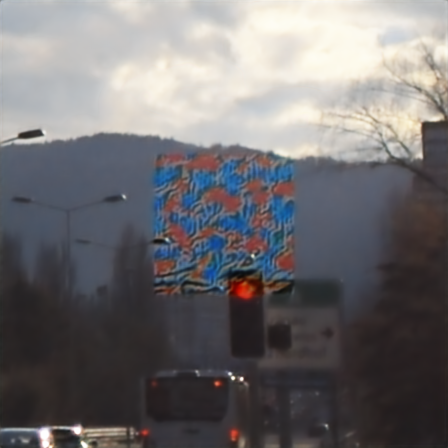
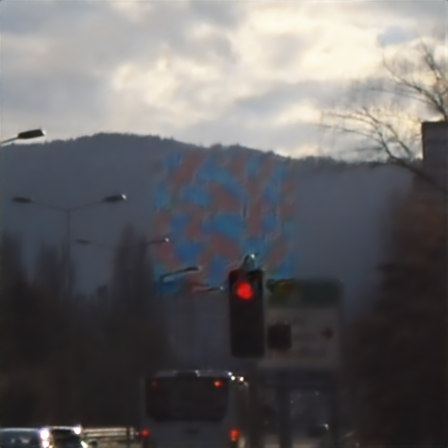
updates

diff --git a/DeepISP/patch_optimization.py b/DeepISP/patch_optimization.py
@@ -166,9 +166,9 @@ def process_raw_images(model):
         imageio.imwrite(os.path.join(current_path, res_folder) + '/' +  str(i) + '.png', I)
 
 def main():
-    epsilon = 0.2 / 255.0  # Perturbation level
+    epsilon = 0.05 / 255.0  # Perturbation level
     max_iterations = 20 # Max Iterations for FGSM
-    loss_threshold = 0.1 # Loss Threshold
+    loss_threshold = 0.02 # Loss Threshold
 
     image_path = current_path + "input_raw_images/" + input_file_name + ".png"
     image = load_image(image_path)

diff --git a/YOLO/YOLOv8.py b/YOLO/YOLOv8.py
@@ -27,6 +27,7 @@ for result in results:
     masks = result.masks  # Masks object for segmentation masks outputs
     keypoints = result.keypoints  # Keypoints object for pose outputs
     probs = result.probs  # Probs object for classification outputs
+    # print(result)
     result.show()  # display to screen
     result.save(filename=result_paths[idx])
     idx+=1
